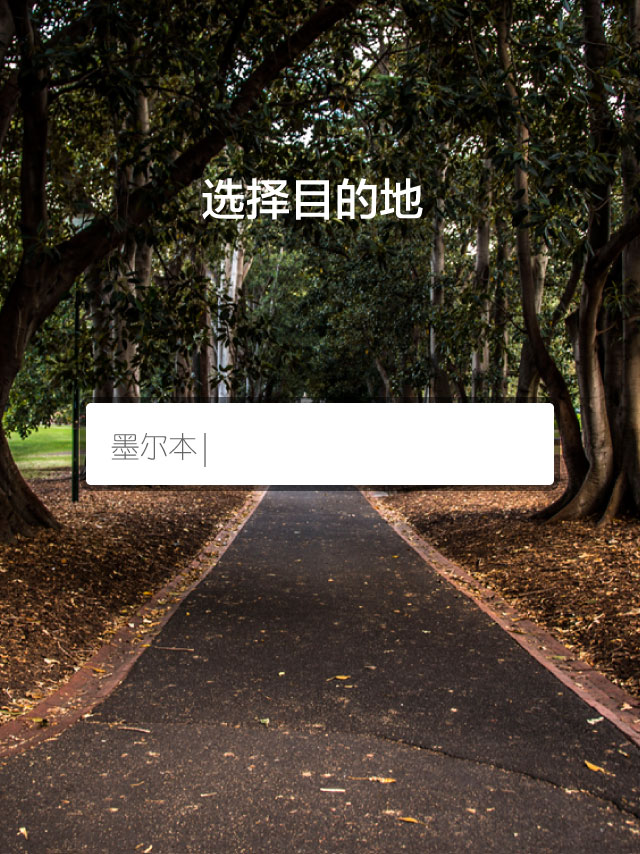
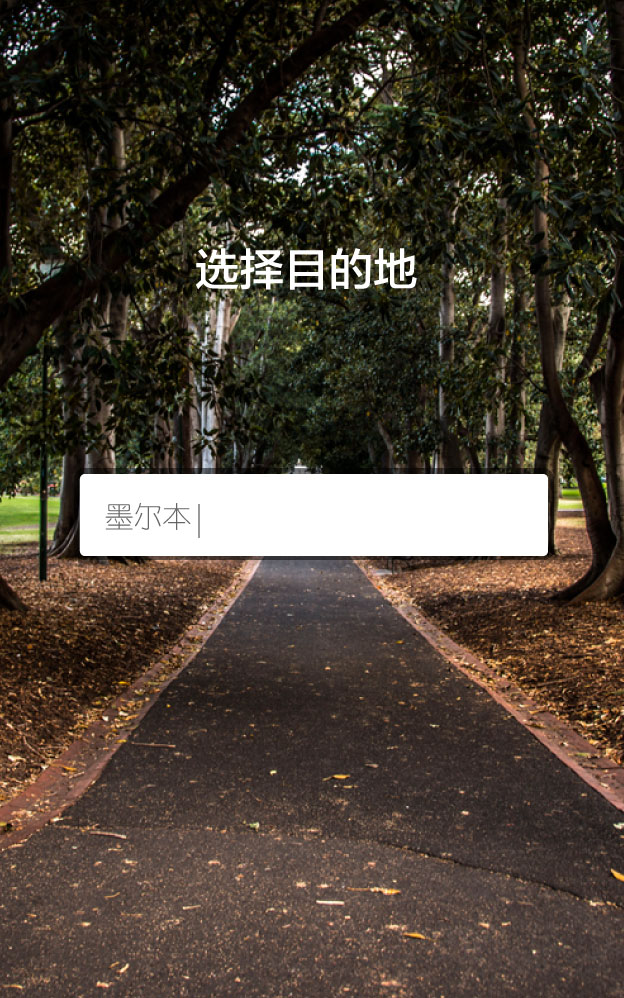
Change introduction page.

diff --git a/TripalocalBeta/RootViewController.m b/TripalocalBeta/RootViewController.m
@@ -19,7 +19,6 @@
 - (void)viewDidLoad {
     [super viewDidLoad];
     
-
 }
 
 - (void)viewDidAppear:(BOOL)animated
@@ -39,11 +38,15 @@
         
         [self.pageViewController setViewControllers:viewControllers direction:UIPageViewControllerNavigationDirectionForward animated:NO completion:nil];
         
-        self.pageViewController.view.frame = CGRectMake(0, 0, self.view.frame.size.width, self.view.frame.size.height - 45);
+        self.pageViewController.view.frame = CGRectMake(0, 0, self.view.frame.size.width, self.view.frame.size.height + 37);
         
         [self addChildViewController:_pageViewController];
         [self.view addSubview:_pageViewController.view];
         [self.pageViewController didMoveToParentViewController:self];
+        
+        [self.pageControl setNumberOfPages:[self.pageImages count]];
+        [self.view bringSubviewToFront:self.pageControl];
+//        [self.view bringSubviewToFront:self.btnSkip];
     } else {
         [self.pageViewController.view removeFromSuperview];
         [self.pageViewController removeFromParentViewController];
@@ -71,6 +74,7 @@
     PageContentViewController *pageContentViewController = [self.storyboard instantiateViewControllerWithIdentifier:@"page_content_controller"];
     pageContentViewController.imageFile = self.pageImages[index];
     pageContentViewController.pageIndex = index;
+    pageContentViewController.rootVC = self;
     
     return pageContentViewController;
 }
@@ -80,6 +84,7 @@
 - (UIViewController *)pageViewController:(UIPageViewController *)pageViewController viewControllerBeforeViewController:(UIViewController *)viewController
 {
     NSUInteger index = ((PageContentViewController*) viewController).pageIndex;
+    [self.pageControl setCurrentPage:index];
     
     if ((index == 0) || (index == NSNotFound)) {
         return nil;
@@ -92,6 +97,7 @@
 - (UIViewController *)pageViewController:(UIPageViewController *)pageViewController viewControllerAfterViewController:(UIViewController *)viewController
 {
     NSUInteger index = ((PageContentViewController*) viewController).pageIndex;
+    [self.pageControl setCurrentPage:index];
     
     if (index == NSNotFound) {
         return nil;
@@ -104,28 +110,14 @@
     return [self viewControllerAtIndex:index];
 }
 
-- (IBAction)startExploring:(id)sender {
+- (void)startExploring {
     [self.pageViewController.view removeFromSuperview];
     [self.pageViewController removeFromParentViewController];
-    
-//    HomeViewController *homeVC = [self.storyboard instantiateViewControllerWithIdentifier:@"home_controller"];
-//    
-//    [self presentViewController:homeVC animated:YES completion:nil];
     [self performSegueWithIdentifier:@"goto_home" sender:self];
 }
 
 - (void)didReceiveMemoryWarning {
     [super didReceiveMemoryWarning];
 }
-
-/*
-#pragma mark - Navigation
-
-// In a storyboard-based application, you will often want to do a little preparation before navigation
-- (void)prepareForSegue:(UIStoryboardSegue *)segue sender:(id)sender {
-    // Get the new view controller using [segue destinationViewController].
-    // Pass the selected object to the new view controller.
-}
-*/
 
 @end

diff --git a/TripalocalBeta/PageContentViewController.m b/TripalocalBeta/PageContentViewController.m
@@ -7,6 +7,7 @@
 //
 
 #import "PageContentViewController.h"
+#import "Utility.h"
 
 @interface PageContentViewController ()
 
@@ -16,12 +17,22 @@
 
 - (void)viewDidLoad {
     [super viewDidLoad];
-    
-    self.tutorialImage.image = [UIImage imageNamed:self.imageFile];
+    self.startExploringButton.layer.cornerRadius = 5.0f;
+    self.startExploringButton.layer.masksToBounds = YES;
+    if (self.pageIndex == 2) {
+        [self.startExploringButton setHidden:NO];
+    } else {
+        [self.startExploringButton setHidden:YES];
+    }
+//    [self.startExploringButton bringSubviewToFront:self.view];
+    self.tutorialImage.image = [Utility croppIngimageByImageName:[UIImage imageNamed:self.imageFile] toRect:self.tutorialImage.frame];
 }
 
 - (void)didReceiveMemoryWarning {
     [super didReceiveMemoryWarning];
+}
+- (IBAction)startExploring:(id)sender {
+    [self.rootVC startExploring];
 }
 
 @end

diff --git a/TripalocalBeta/Utility.m b/TripalocalBeta/Utility.m
@@ -1,0 +1,23 @@
+//
+//  Utility.m
+//  TripalocalBeta
+//
+//  Created by Ye He on 20/07/2015.
+//  Copyright (c) 2015 Tripalocal. All rights reserved.
+//
+
+#import "Utility.h"
+
+@implementation Utility
+
++ (UIImage *)croppIngimageByImageName:(UIImage *)imageToCrop toRect:(CGRect)rect
+{
+    CGRect newRect = CGRectMake(rect.origin.x + 45, rect.origin.y + 50, rect.size.width - 65, rect.size.height * 2 -50);
+    CGImageRef imageRef = CGImageCreateWithImageInRect([imageToCrop CGImage], newRect);
+    UIImage *cropped = [UIImage imageWithCGImage:imageRef];
+    CGImageRelease(imageRef);
+    
+    return cropped;
+}
+
+@end

diff --git a/TripalocalBeta/PageContentViewController.h b/TripalocalBeta/PageContentViewController.h
@@ -7,9 +7,12 @@
 //
 
 #import <UIKit/UIKit.h>
+#import "RootViewController.h"
 
 @interface PageContentViewController : UIViewController
 @property (weak, nonatomic) IBOutlet UIImageView *tutorialImage;
 @property NSUInteger pageIndex;
 @property NSString *imageFile;
+@property (strong, nonatomic) IBOutlet UIButton *startExploringButton;
+@property (strong, nonatomic) RootViewController *rootVC;
 @end

diff --git a/TripalocalBeta/AppDelegate.m b/TripalocalBeta/AppDelegate.m
@@ -22,7 +22,7 @@
     UIPageControl *pageControl = [UIPageControl appearance];
     pageControl.pageIndicatorTintColor = [UIColor lightGrayColor];
     pageControl.currentPageIndicatorTintColor = [UIColor blackColor];
-    pageControl.backgroundColor = [UIColor whiteColor];
+    pageControl.backgroundColor = [UIColor clearColor];
     
     int imageSize = 27; //REPLACE WITH YOUR IMAGE WIDTH
     

diff --git a/TripalocalBeta/RootViewController.h b/TripalocalBeta/RootViewController.h
@@ -10,5 +10,7 @@
 
 @interface RootViewController : UIViewController <UIPageViewControllerDataSource>
 @property (strong, nonatomic) NSArray *pageImages;
+@property (strong, nonatomic) IBOutlet UIPageControl *pageControl;
 @property (strong, nonatomic) UIPageViewController *pageViewController;
+- (void)startExploring;
 @end

diff --git a/TripalocalBeta/Utility.h b/TripalocalBeta/Utility.h
@@ -1,0 +1,13 @@
+//
+//  Utility.h
+//  TripalocalBeta
+//
+//  Created by Ye He on 20/07/2015.
+//  Copyright (c) 2015 Tripalocal. All rights reserved.
+//
+
+#import <Foundation/Foundation.h>
+
+@interface Utility : NSObject
++ (UIImage *)croppIngimageByImageName:(UIImage *)imageToCrop toRect:(CGRect)rect;
+@end
